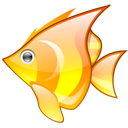
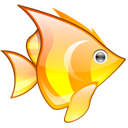
Changed the image setup so it now works and added the fish images

diff --git a/src/model/entities/Entity.java b/src/model/entities/Entity.java
@@ -1,8 +1,9 @@
 package model.entities;
 
+import java.awt.Image;
 import java.awt.geom.Point2D;
 import java.awt.geom.Rectangle2D;
-import java.awt.image.BufferedImage;
+import java.util.ArrayList;
 import java.util.List;
 
 public class Entity
@@ -12,14 +13,23 @@ public class Entity
 	private Point2D rotationPoint;
 	private Rectangle2D bounds;
 	private int index;
-	private List<BufferedImage> images;
+	private List<Image> images;
 
-	public Entity(Rectangle2D bounds, List<BufferedImage> images)
+	public Entity(Rectangle2D bounds)
 	{
 		this.bounds = bounds;
-		this.images = images;
 		this.rotationPoint = new Point2D.Double(0, 0);
+		this.images = new ArrayList<Image>();
+		
 	}	
+	
+	
+	public void setImages(List<Image> images){
+		this.images = images;
+		if(!images.isEmpty()){
+			this.index = (int)(Math.random() * images.size());
+		}
+	}
 	
 	public Point2D getRotationPoint()
 	{
@@ -71,8 +81,11 @@ public class Entity
 		this.bounds = bounds;
 	}
 
-	public BufferedImage getImage()
+	public Image getImage()
 	{
+		if(images.isEmpty()){
+			return null;
+		}
 		return images.get(index);
 	}
 	

diff --git a/src/model/entities/underwater/Fish.java b/src/model/entities/underwater/Fish.java
@@ -1,7 +1,11 @@
 package model.entities.underwater;
 
+import java.awt.Image;
+import java.awt.Toolkit;
 import java.awt.geom.Point2D;
 import java.awt.geom.Rectangle2D;
+import java.awt.image.BufferedImage;
+import java.util.ArrayList;
 
 import model.CameraData;
 import model.entities.Entity;
@@ -14,10 +18,15 @@ public class Fish extends Entity
 	
 	public Fish()
 	{
-		super(new Rectangle2D.Double(-WIDTH, 0, WIDTH, HEIGHT), null);
+		super(new Rectangle2D.Double(-WIDTH, 0, WIDTH, HEIGHT));
 		
 		setY((baseY = Math.random() * (CameraData.VIEW_HEIGHT - HEIGHT * 4) + HEIGHT * 2));
 		setVelocity(new Point2D.Double(Math.random() * 0.2 + 0.01, 0));
+		
+		ArrayList<Image> images = new ArrayList<Image>();
+		images.add(Toolkit.getDefaultToolkit().getImage("./images/underwater/blueFish.png"));
+		images.add(Toolkit.getDefaultToolkit().getImage("./images/underwater/orangeFish.png"));
+		setImages(images);
 	}
 
 	@Override

diff --git a/src/view/SenzingPanel.java b/src/view/SenzingPanel.java
@@ -81,7 +81,12 @@ public class SenzingPanel extends JPanel implements ActionListener
 		
 		for (Entity entity : game.getEntities())
 		{
-			g2.fill(AffineTransform.getRotateInstance(entity.getRotation(), entity.getRotationPoint().getX() + entity.getBounds().getX(), entity.getRotationPoint().getY() + entity.getBounds().getY()).createTransformedShape(entity.getBounds()));
+			if(entity.getImage() != null){
+				g2.drawImage(entity.getImage(), (int)entity.getBounds().getX(), (int)entity.getBounds().getY(), (int)entity.getBounds().getWidth(), (int)entity.getBounds().getHeight(), null);
+			}
+			else{
+				g2.fill(AffineTransform.getRotateInstance(entity.getRotation(), entity.getRotationPoint().getX() + entity.getBounds().getX(), entity.getRotationPoint().getY() + entity.getBounds().getY()).createTransformedShape(entity.getBounds()));
+			}
 		}
 	}
 

diff --git a/src/model/entities/HostileEntity.java b/src/model/entities/HostileEntity.java
@@ -12,9 +12,9 @@ public class HostileEntity extends Entity
 	protected boolean alive = true;
 	protected List<User> users;
 	
-	public HostileEntity(Rectangle2D bounds, List<BufferedImage> images, int reward, List<User> users)
+	public HostileEntity(Rectangle2D bounds, int reward, List<User> users)
 	{
-		super(bounds, images);
+		super(bounds);
 		this.reward = reward;
 		this.users = users;
 	}

diff --git a/src/model/entities/underwater/HarpoonDiver.java b/src/model/entities/underwater/HarpoonDiver.java
@@ -21,7 +21,7 @@ public class HarpoonDiver extends HostileEntity
 	public HarpoonDiver(List<User> users)
 	{
 		// TODO: implement images.
-		super(new Rectangle2D.Double(0, 0, width, height), null, 100, users);
+		super(new Rectangle2D.Double(0, 0, width, height), 100, users);
 		setVelocity(new Point2D.Double(0, 0));
 		setY(80);
 		Random rand = new Random();

diff --git a/src/model/entities/underwater/Plant.java b/src/model/entities/underwater/Plant.java
@@ -16,7 +16,7 @@ public class Plant extends Entity
 	
 	public Plant()
 	{
-		super(new Rectangle2D.Double(0, 0, WIDTH, HEIGTH), null);
+		super(new Rectangle2D.Double(0, 0, WIDTH, HEIGTH));
 		setX(System.currentTimeMillis() * (CameraData.VIEW_WIDTH - 20) + 1);
 		setY(CameraData.VIEW_HEIGHT);
 		setRotationPoint(new Point2D.Double(WIDTH/2,0));

diff --git a/src/model/entities/cave/Droplet.java b/src/model/entities/cave/Droplet.java
@@ -9,9 +9,9 @@ import model.entities.Entity;
 public class Droplet extends Entity
 {
 
-	public Droplet(Rectangle2D bounds, List<BufferedImage> images)
+	public Droplet(Rectangle2D bounds)
 	{
-		super(bounds, images);
+		super(bounds);
 		// TODO Auto-generated constructor stub
 	}
 

diff --git a/src/model/entities/desert/Vulture.java b/src/model/entities/desert/Vulture.java
@@ -9,9 +9,9 @@ import model.entities.Entity;
 public class Vulture extends Entity
 {
 
-	public Vulture(Rectangle2D bounds, List<BufferedImage> images)
+	public Vulture(Rectangle2D bounds)
 	{
-		super(bounds, images);
+		super(bounds);
 		// TODO Auto-generated constructor stub
 	}
 

diff --git a/src/model/entities/desert/Camel.java b/src/model/entities/desert/Camel.java
@@ -9,9 +9,9 @@ import model.entities.Entity;
 public class Camel extends Entity
 {
 
-	public Camel(Rectangle2D bounds, List<BufferedImage> images)
+	public Camel(Rectangle2D bounds)
 	{
-		super(bounds, images);
+		super(bounds);
 		// TODO Auto-generated constructor stub
 	}
 

diff --git a/src/model/entities/sky/Cloud.java b/src/model/entities/sky/Cloud.java
@@ -9,9 +9,9 @@ import model.entities.Entity;
 public class Cloud extends Entity
 {
 
-	public Cloud(Rectangle2D bounds, List<BufferedImage> images)
+	public Cloud(Rectangle2D bounds)
 	{
-		super(bounds, images);
+		super(bounds);
 		// TODO Auto-generated constructor stub
 	}
 

diff --git a/src/model/entities/rainforest/Bird.java b/src/model/entities/rainforest/Bird.java
@@ -9,9 +9,9 @@ import model.entities.Entity;
 public class Bird extends Entity
 {
 
-	public Bird(Rectangle2D bounds, List<BufferedImage> images)
+	public Bird(Rectangle2D bounds)
 	{
-		super(bounds, images);
+		super(bounds);
 		// TODO Auto-generated constructor stub
 	}
 

diff --git a/src/model/entities/rainforest/Tree.java b/src/model/entities/rainforest/Tree.java
@@ -9,9 +9,9 @@ import model.entities.Entity;
 public class Tree extends Entity
 {
 
-	public Tree(Rectangle2D bounds, List<BufferedImage> images)
+	public Tree(Rectangle2D bounds)
 	{
-		super(bounds, images);
+		super(bounds);
 		// TODO Auto-generated constructor stub
 	}
 
